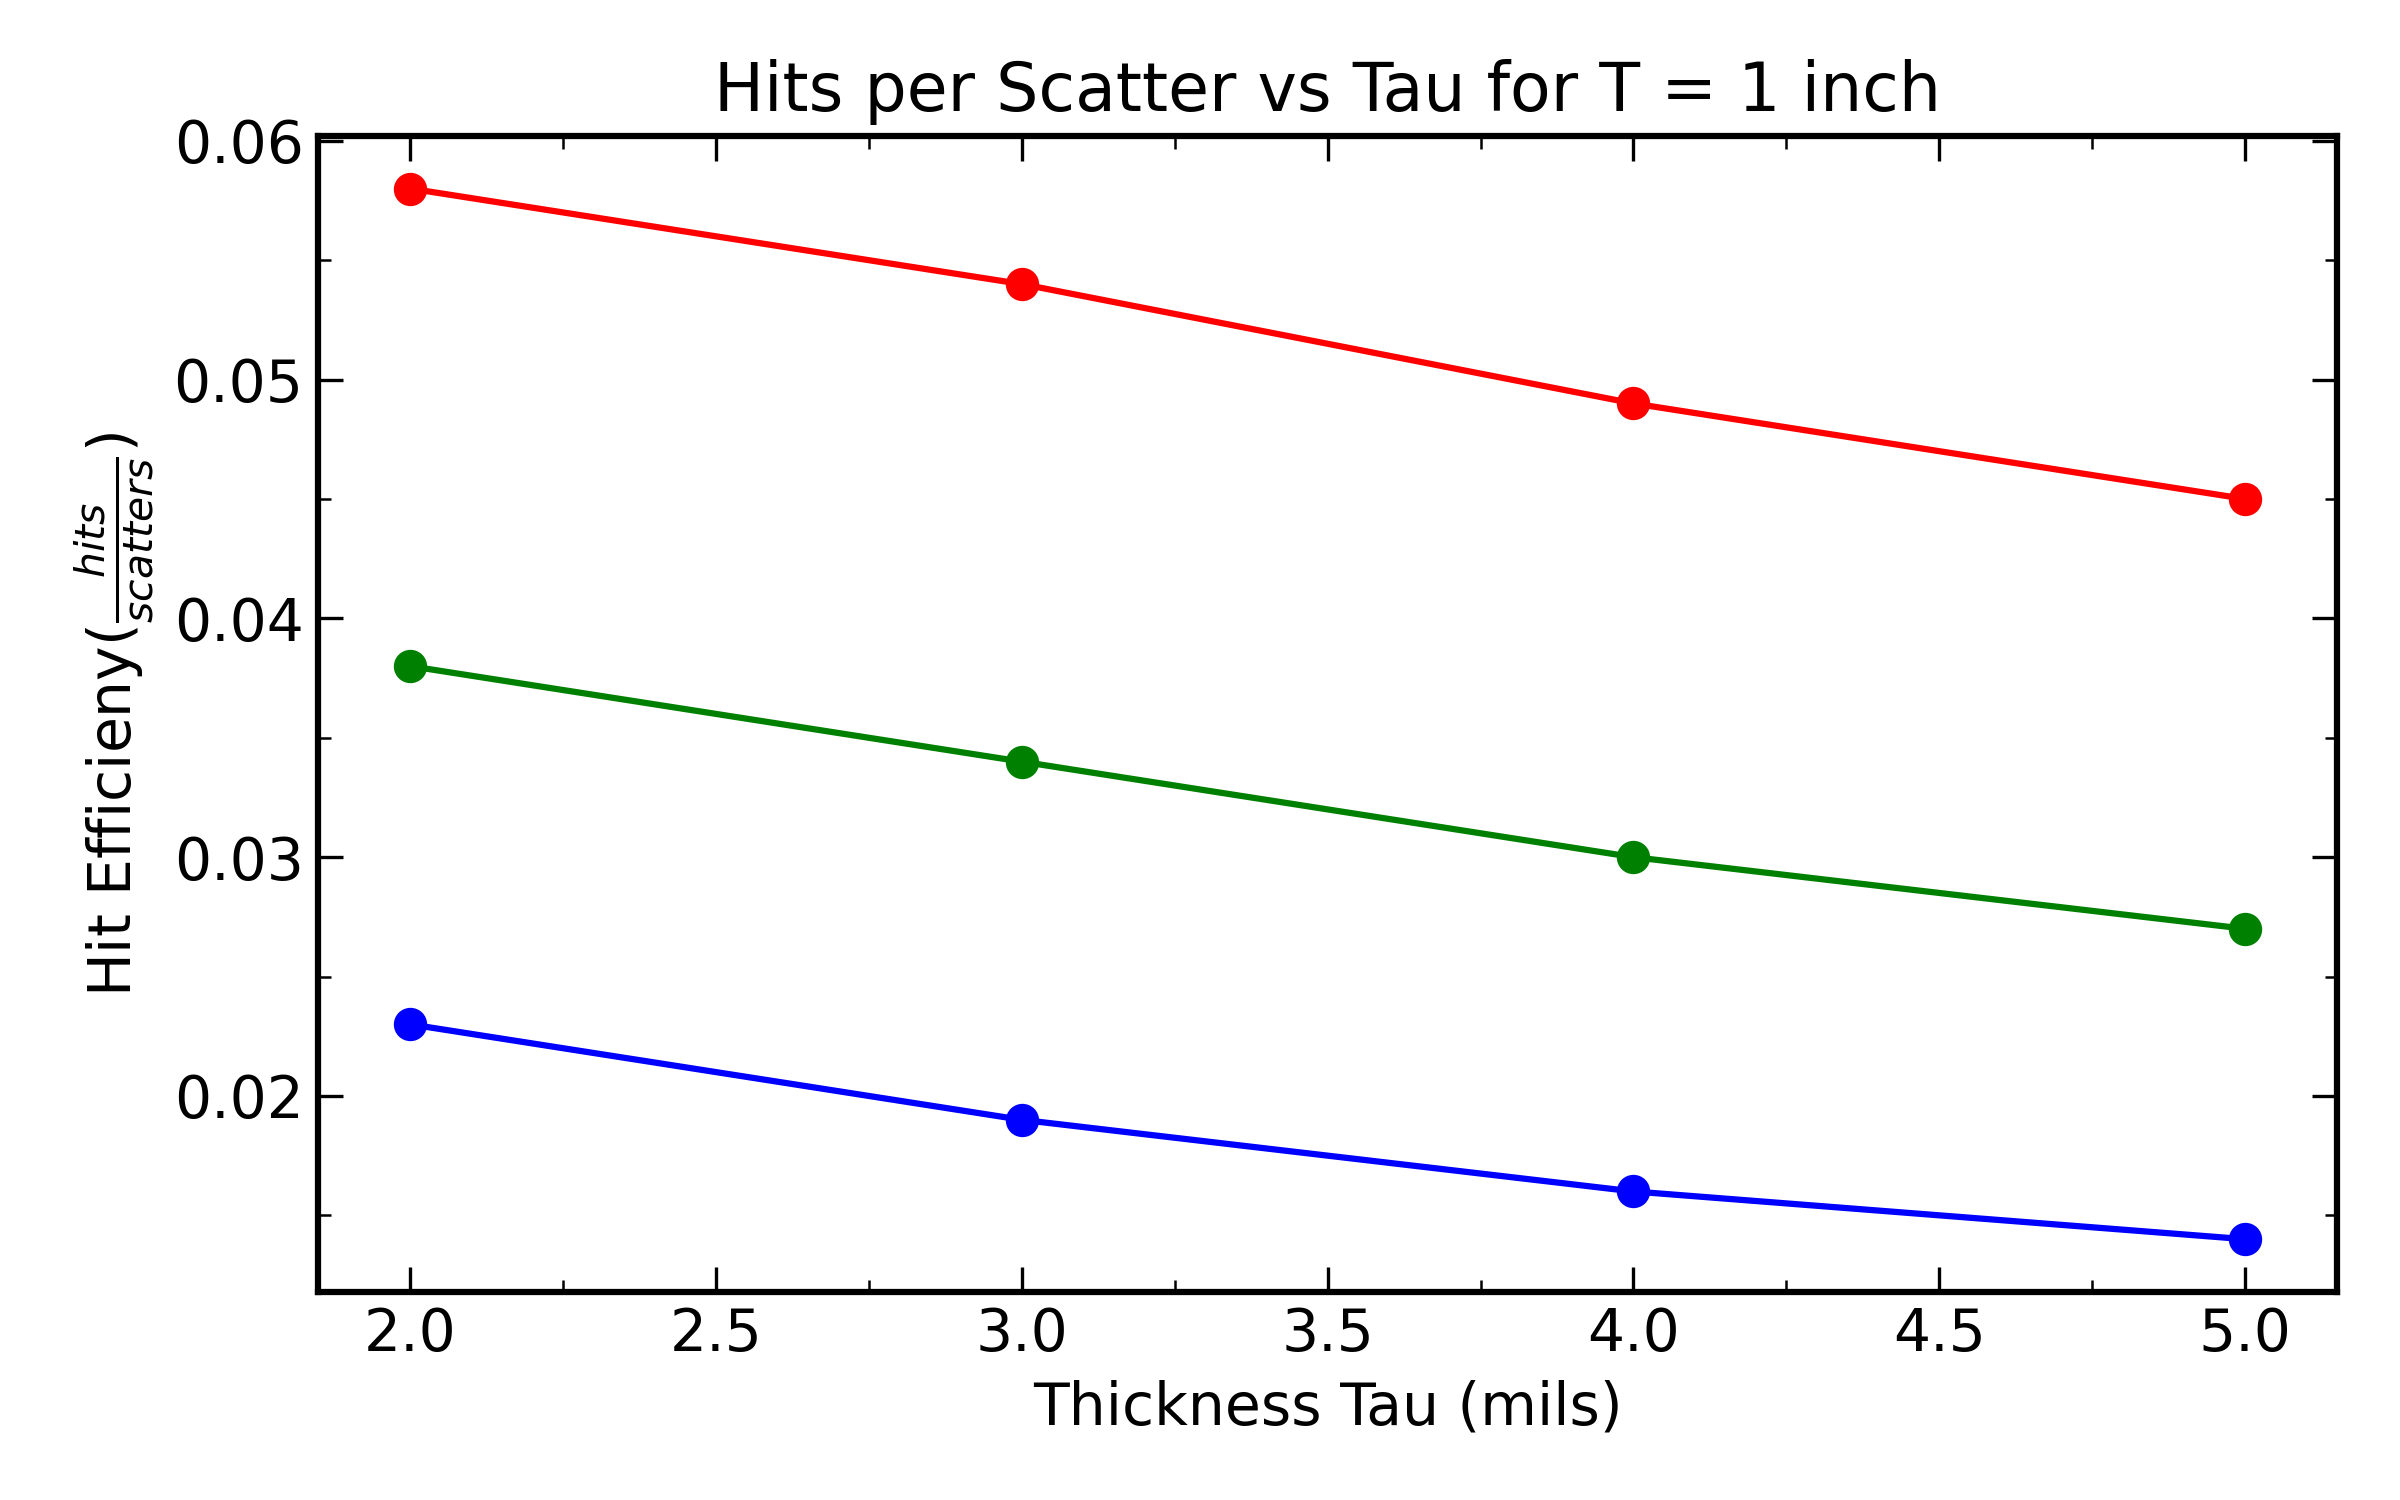
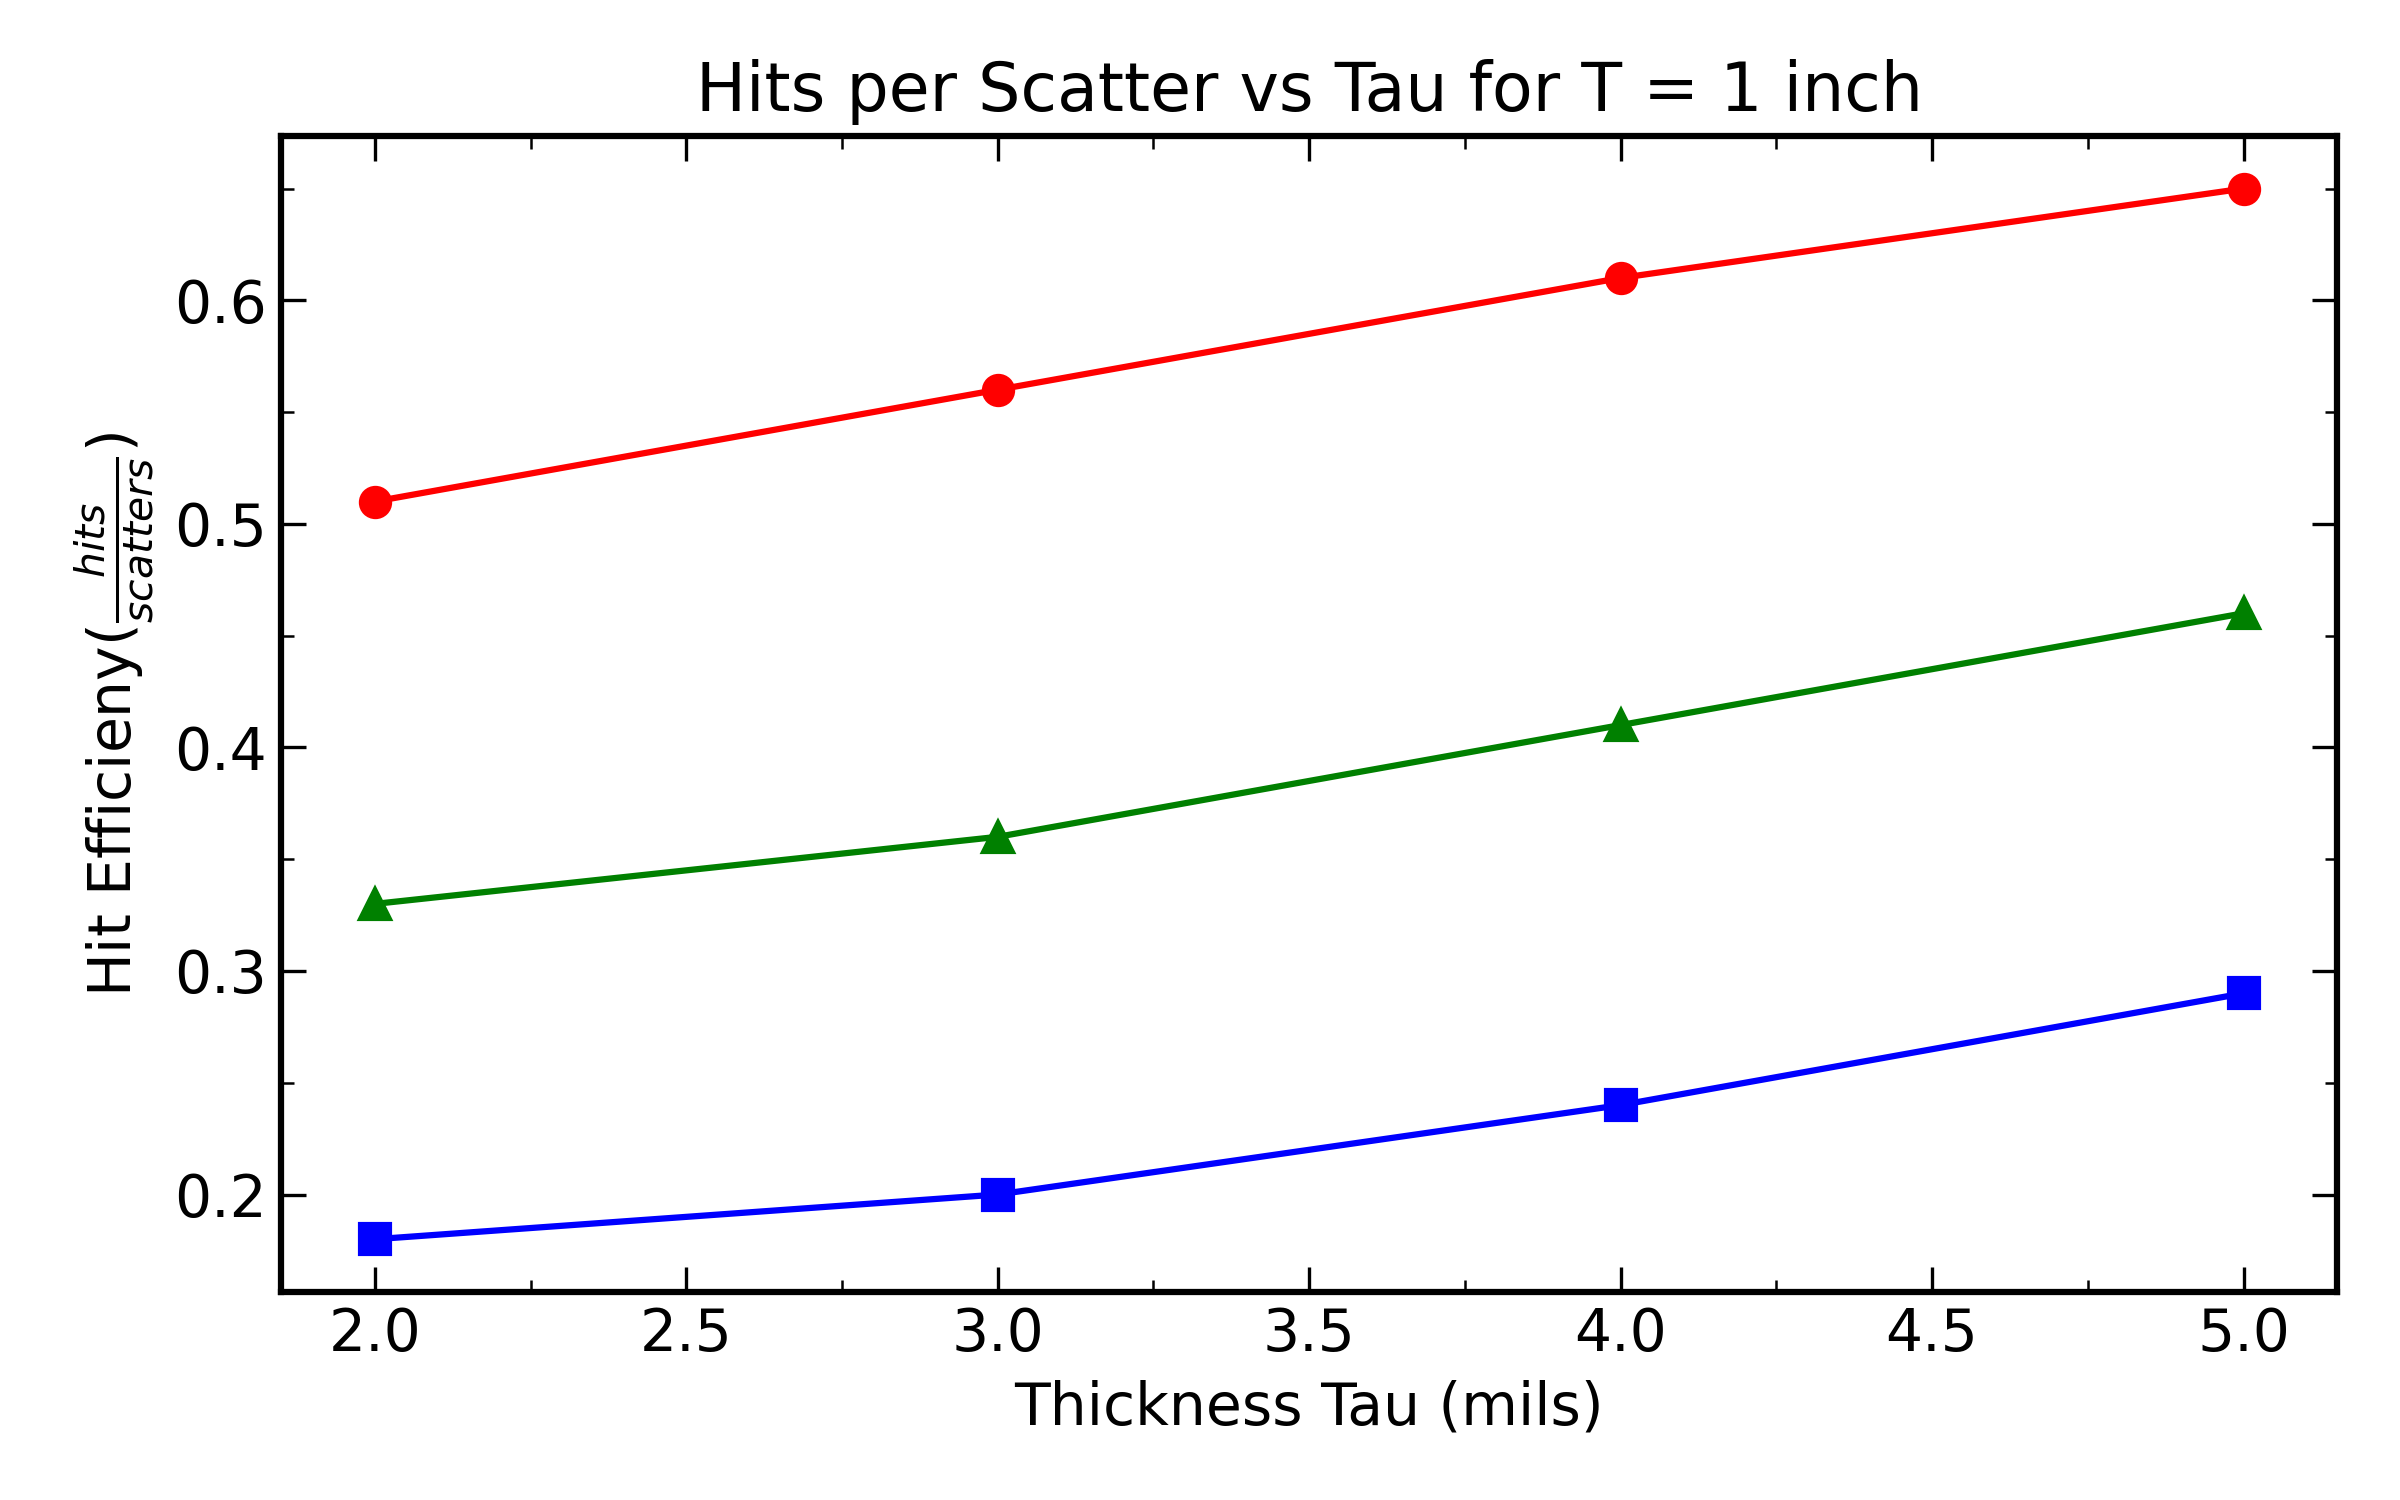
made more plots but need to clean up pipelines

diff --git a/scripts/plot_scatter_per_layer.py b/scripts/plot_scatter_per_layer.py
@@ -1,48 +1,21 @@
 import numpy as np
 import matplotlib.pyplot as plt
 from matplotlib.ticker import AutoMinorLocator
-
-# ------------------------------
-# Parameters
-# ------------------------------
+from matplotlib.ticker import MultipleLocator
 
 filename = "data/scatter_layers.data"
 normalize_const = 19869792    # <-- total number of scatters
 
-# ------------------------------
-# 1. Load binary doubles
-# ------------------------------
-
 layers_raw = np.fromfile(filename, dtype=np.float64)
 print("length check = " + str(len(layers_raw)) + "\n")
 print(f"Loaded {len(layers_raw)} entries before filtering")
-
-# ------------------------------
-# 2. Discard -1 (not in detector)
-# ------------------------------
 
 valid_mask = layers_raw >= 0
 layers_valid = layers_raw[valid_mask]
 
 print(f"Kept {len(layers_valid)} valid entries, discarded {len(layers_raw) - len(layers_valid)}")
 
-# ------------------------------
-# 3. Convert layer values:
-#    raw_value + 1 → layer index
-# ------------------------------
-
-# Example: 0.0→1, 1.0→2, ..., 11.0→12
 layers = layers_valid.astype(int) + 1
-
-# Only keep 1–12
-"""final_mask = (layers >= 1) & (layers <= 12)
-layers = layers[final_mask]"""
-
-print(f"Final valid layer entries: {len(layers)}")
-
-# ------------------------------
-# 4. Count occurrences per layer
-# ------------------------------
 
 num_layers = 12
 counts = np.zeros(num_layers, dtype=int)
@@ -55,10 +28,6 @@ norm_counts = counts / normalize_const
 
 print("Counts per layer:", counts)
 print("Normalized:", norm_counts)
-
-# ------------------------------
-# 5. Make point-style plot
-# ------------------------------
 
 plt.rcParams.update({
     "figure.figsize": (8, 5),
@@ -78,6 +47,7 @@ plt.rcParams.update({
 
 fig, ax = plt.subplots()
 
+
 layers_x = np.arange(1, num_layers + 1)
 ax.plot(layers_x, norm_counts, "o", markersize=7, color="black")
 
@@ -85,8 +55,8 @@ ax.set_xlabel("Layer number")
 ax.set_ylabel("Fraction of Total Scatters Per Layer")
 ax.set_title("Scatter distribution by layer")
 
-# Minor ticks
-ax.xaxis.set_minor_locator(AutoMinorLocator(2))
+ax.xaxis.set_major_locator(MultipleLocator(1))
+ax.xaxis.set_minor_locator(AutoMinorLocator(1))
 ax.yaxis.set_minor_locator(AutoMinorLocator(2))
 
 plt.tight_layout()

diff --git a/scripts/plot_lors_per_annihil.py b/scripts/plot_lors_per_annihil.py
@@ -4,6 +4,9 @@ from matplotlib.ticker import MultipleLocator, AutoMinorLocator, FormatStrFormat
 
 tau  = np.array([5, 4, 3, 2])
 lors_per_annihilation = np.array([0.51, 0.57, 0.63, 0.69])
+lors11_per_annihilation = np.array([0.17, 0.19, 0.21, 0.23])
+lors12_per_annihilation = np.array([0.13, 0.14, 0.15, 0.16])
+lors22_per_annihilation = np.array([0.024, 0.026, 0.028, 0.029])
 
 plt.rcParams.update({
     "figure.figsize": (8, 5),
@@ -16,7 +19,10 @@ plt.rcParams.update({
 })
 
 fig, ax = plt.subplots()
-ax.plot(tau, lors_per_annihilation, marker='o', ms = 10, linewidth=2)
+ax.plot(tau, lors_per_annihilation, 'o-', ms = 10, linewidth=2)
+ax.plot(tau, lors11_per_annihilation, '^-', ms = 10, linewidth=2)
+ax.plot(tau, lors12_per_annihilation, 's-', ms = 10, linewidth=2)
+ax.plot(tau, lors22_per_annihilation, 'x-', ms = 10, linewidth=2)
 
 ax.set_xlabel("Tau (mil)", fontsize=16)
 ax.set_ylabel(r"LORs Per Annhilation $\frac{LORs}{Annihilaitons}$", fontsize=16)
@@ -24,7 +30,7 @@ ax.set_title("LORs Per Annihilation v.s Tau", fontsize=18)
 
 # --- Axes limits ---
 ax.set_xlim(2, 5)
-ax.set_ylim(0.51, 0.69)   # accommodates full data range
+ax.set_ylim(0.0, 0.70)   # accommodates full data range
 
 # --- X ticks: integers, no decimal formatting ---
 ax.xaxis.set_major_locator(MultipleLocator(1))

diff --git a/scripts/plot_hit_scatter_vs_tau.py b/scripts/plot_hit_scatter_vs_tau.py
@@ -3,9 +3,9 @@ from matplotlib.ticker import AutoMinorLocator
 
 thickness_mm = [2, 3, 4, 5]
 
-hit_first_scatter_eff = [0.058, 0.054, 0.049, 0.045]
-hit_second_scatter_eff = [0.038, 0.034, 0.030, 0.027]
-hit_third_scatter_eff = [0.023, 0.019, 0.016, 0.014]
+hit_first_scatter_eff = [0.51, 0.56, 0.61, 0.65]
+hit_second_scatter_eff = [0.33, 0.36, 0.41, 0.46]
+hit_third_scatter_eff = [0.18, 0.20, 0.24, 0.29]
 
 # APS-like styling
 plt.rcParams.update({
@@ -28,8 +28,8 @@ fig, ax = plt.subplots()
 
 # Point plot
 ax.plot(thickness_mm, hit_first_scatter_eff, "o-", color="red", markersize=7, linewidth=1.5)
-ax.plot(thickness_mm, hit_second_scatter_eff, "o-", color="green", markersize=7, linewidth=1.5)
-ax.plot(thickness_mm, hit_third_scatter_eff, "o-", color="blue", markersize=7, linewidth=1.5)
+ax.plot(thickness_mm, hit_second_scatter_eff, "^-", color="green", markersize=7, linewidth=1.5)
+ax.plot(thickness_mm, hit_third_scatter_eff, "s-", color="blue", markersize=7, linewidth=1.5)
 
 # Labels
 ax.set_xlabel(r"Thickness Tau (mils)", fontsize = 14)

diff --git a/scripts/compare_scatters.py b/scripts/compare_scatters.py
@@ -35,7 +35,7 @@ centers_all, counts_all = read_histogram(file_all)
 errors_detected = np.sqrt(counts_detected)/np.sum(counts_all)
 errors_all = np.sqrt(counts_all)/np.sum(counts_all)
 
-#Scatter Plot
+"""#Scatter Plot
 plt.errorbar(centers_all, counts_all/2000000, yerr=errors_all, fmt='-o', label='All First Scatters', capsize=3)
 plt.errorbar(centers_detected, counts_detected/2000000, yerr=errors_detected, fmt='-o', label='Detected First Scatters', capsize=3)
 
@@ -64,9 +64,9 @@ ytick_labels = [round_sig(y, 2) for y in yticks]
 
 plt.yticks(yticks, ytick_labels)
 plt.savefig("plots/first_scatter_comparison.png")
-plt.show()
+plt.show()"""
 
-"""#Integral Plots
+#Integral Plots
 integral_detected = [np.sum(counts_detected[:i+1]/2000000) for i in range(len(counts_detected))]
 integral_all = [np.sum(counts_all[:i+1]/2000000) for i in range(len(counts_all))]
 
@@ -108,4 +108,4 @@ ytick_labels = [round_sig(y, 2) for y in yticks]
 plt.yticks(yticks, ytick_labels)
 
 plt.savefig("plots/integral_scatter_comparison.png")
-plt.show()"""
+plt.show()

diff --git a/scripts/plot_pores_crossed.py b/scripts/plot_pores_crossed.py
@@ -7,7 +7,7 @@ from matplotlib.ticker import AutoMinorLocator
 # ------------------------------
 
 filename = "data/num_pores_crossed.data"
-normalize_const = 19869792      # you choose this
+normalize_const = 2000000      # you choose this
 
 max_pores_in_file = 13        # data may go up to 13
 max_k_to_plot = 6             # we only care about >=1..>=6 pores
@@ -86,8 +86,8 @@ fig, ax = plt.subplots()
 
 ax.plot(ks, y_vals, "o", markersize=7, color="black")
 ax.set_xlabel("Minimum Number of Pores Crossed")
-ax.set_ylabel(r"$\frac{hits}{scatter}$")
-ax.set_title("Hits Per Scatter vs The Minimum Number of Pores Crossed")
+ax.set_ylabel(r"$\frac{hits}{gamma}$")
+ax.set_title("Hits Per Gamma vs The Minimum Number of Pores Crossed")
 
 ax.xaxis.set_minor_locator(AutoMinorLocator(2))
 ax.yaxis.set_minor_locator(AutoMinorLocator(2))

diff --git a/src/hgmt_lor_creator.c b/src/hgmt_lor_creator.c
@@ -746,9 +746,10 @@ int main(int argc, char **argv) {
   printf("total number of lors: %u\n", lor_count);
   printf("first scatter hits: %u\n", hit_first_counter);
   printf("first scatter count: %u\n", first_scatter_count);
-  printf("hits/first scatter: %d\n", hit_first_counter/first_scatter_count);
-  printf("hits/second scatter: %d\n", hit_second_counter/second_scatter_count);
-  printf("hits/third scatters: %d\n", hit_third_counter/third_scatter_count);
+  printf("second scatter hits: %u\n", hit_second_counter);
+  printf("second scatter counts: %u\n", second_scatter_count);
+  printf("third scatter hits: %u\n", hit_third_counter);
+  printf("third scatter counts: %u\n", third_scatter_count); 
   printf(
       "(DUAL)CUT 'N': 'num' 'percent passing' 'cumulative percent passing'\n");
   for (int i = 1; i < NUM_CUTS; i++)

diff --git a/scripts/read_lor_configs.py b/scripts/read_lor_configs.py
@@ -1,0 +1,21 @@
+import numpy as np
+
+lor11_file = "data/HGMTPointVac11.lor"
+lor12_file = "data/HGMTPointVac12.lor"
+lor21_file = "data/HGMTPointVac21.lor"
+lor22_file = "data/HGMTPointVac22.lor"
+
+data11 = np.fromfile(lor11_file, dtype = np.float64)
+data12 = np.fromfile(lor12_file, dtype = np.float64)
+data21 = np.fromfile(lor21_file, dtype = np.float64)
+data22 = np.fromfile(lor22_file, dtype = np.float64)
+
+num_lors11 = data11.size/9
+num_lors12 = data12.size/9
+num_lors21 = data21.size/9
+num_lors22 = data22.size/9
+
+print("(1,1) number = " + str(num_lors11/1000000))
+print("(1,2) number = " + str(num_lors12/1000000))
+print("(2,1) number = " + str(num_lors21/1000000))
+print("(2,2) number = " + str(num_lors22/1000000))

diff --git a/src/pore_geometry.h b/src/pore_geometry.h
@@ -18,7 +18,7 @@
 #define ALPHA 5 //microns
 #define BETA 50 //microns
 #define GAMMA 1000 //microns
-#define TAU 127 //microns
+#define TAU 51 //microns
 
 // tolerances for AXIS_SLAB / axis_slab
 #define EPS_U 1e-12      // treat |u| < EPS_U as parallel (units: same as u, typically mm per t)
